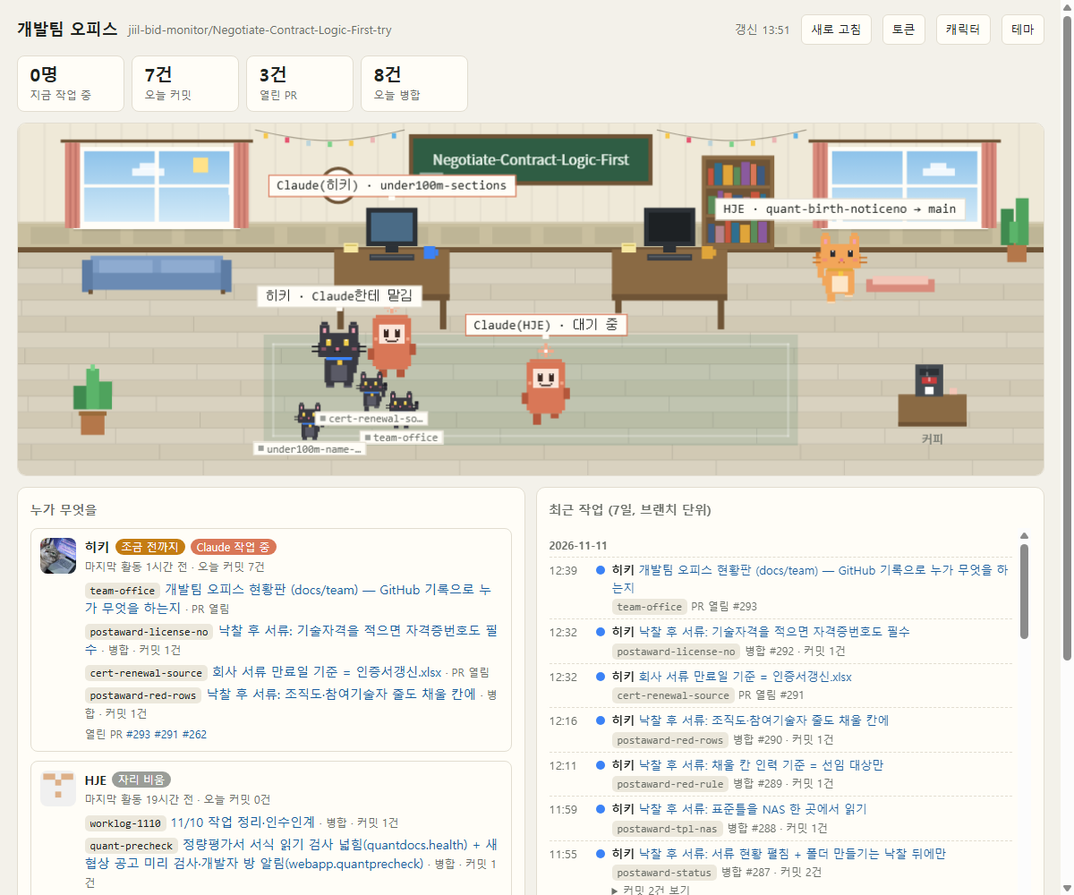
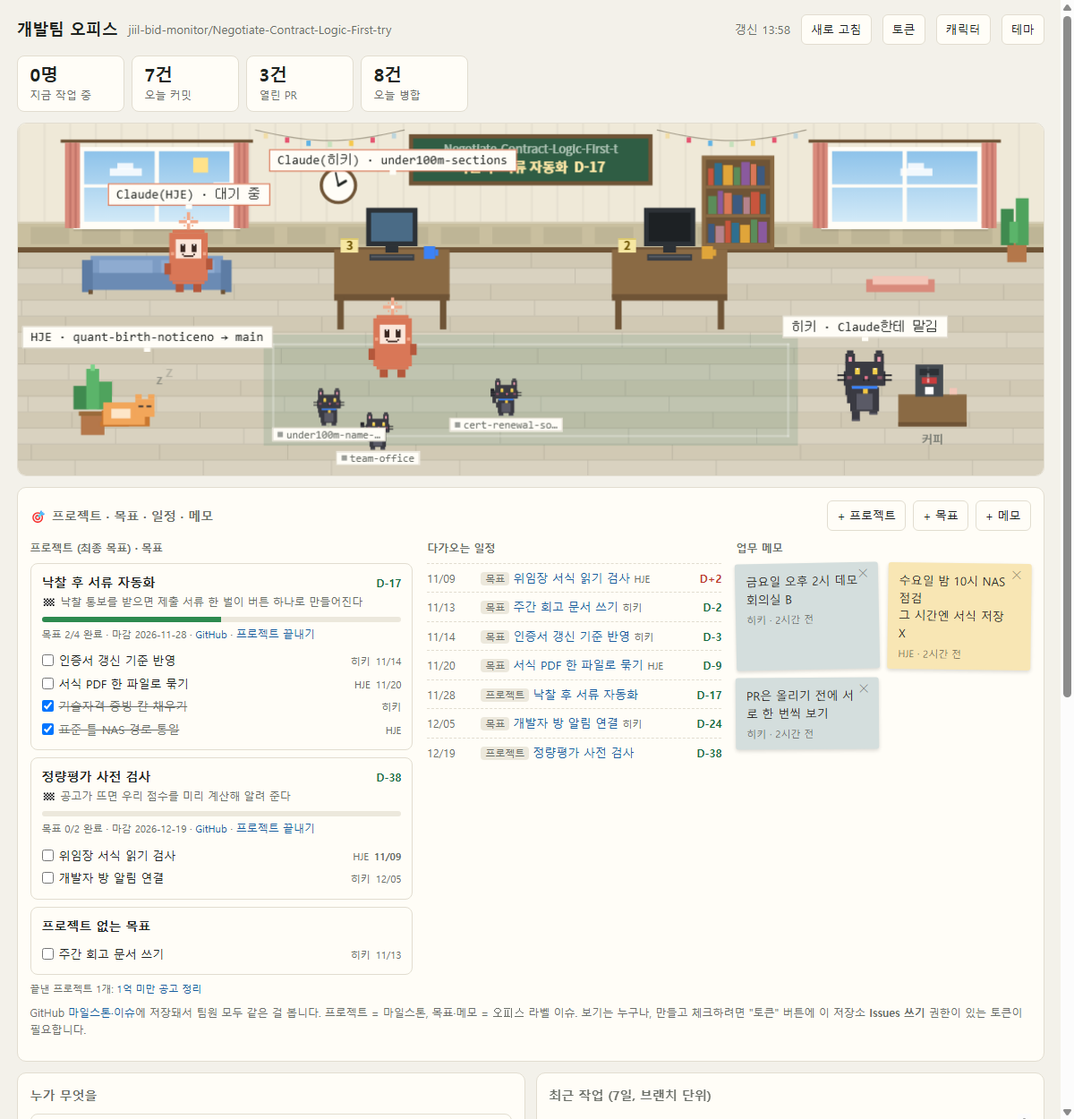
프로젝트·목표·일정·메모 보드 추가 (GitHub 마일스톤·이슈에 저장)
- 프로젝트(최종 목표·마감일) = 마일스톤, 목표·메모 = "오피스" 라벨 이슈.
  목표 마감일은 이슈 본문의 "마감: YYYY-MM-DD" 줄
- 화면에서 프로젝트·목표·메모를 만들고, 목표 체크(이슈 닫기),
  메모 떼기, 프로젝트 끝내기. 쓰기는 Issues 쓰기 권한 토큰이 있을 때만
- 일정: 마감일 있는 프로젝트·목표를 날짜순으로, D-day 표시
- 사무실 칠판에 가장 가까운 프로젝트와 D-day, 책상 포스트잇에 맡은 목표 수
- 보드 저장소는 기본으로 보고 있는 저장소, ?board=owner/name 으로 바꿈
- 자리 말풍선이 칠판을 가리지 않게 조금 내림
- README에 보드 쓰는 법 추가

diff --git a/index.html b/index.html
@@ -71,6 +71,36 @@ dialog h2{font-size:16px;margin:0 0 6px}
 #charCode{width:100%;font:12px/1.5 ui-monospace,Consolas,monospace;background:var(--chip);color:var(--ink);border:1px solid var(--line);border-radius:6px;padding:8px;resize:vertical}
 .dlg-actions{display:flex;gap:8px;margin-top:10px}.dlg-actions .sp{flex:1}
 .err{background:#fde8e8;color:#8a1f1f;border-radius:8px;padding:10px 14px;margin-bottom:12px}
+/* 프로젝트·목표·일정·메모 보드 */
+.board{margin-bottom:12px}
+.bhead{display:flex;align-items:center;gap:8px;flex-wrap:wrap;margin-bottom:10px}.bhead h2{margin:0}.bhead .sp{flex:1}
+.bgrid{display:grid;grid-template-columns:1.3fr 1fr 1fr;gap:16px}
+@media (max-width:980px){.bgrid{grid-template-columns:1fr}}
+.board h3{font-size:12px;color:var(--ink2);margin:0 0 8px;font-weight:600}
+.empty{color:var(--ink2);font-size:12px;padding:10px;border:1px dashed var(--line);border-radius:8px}
+.proj{border:1px solid var(--line);border-radius:8px;padding:10px 12px;margin-bottom:8px}
+.ptop{display:flex;gap:8px;align-items:baseline}.ptop b{flex:1}
+.dday{font-size:12px;font-weight:700;color:var(--accent);white-space:nowrap}.dday.late{color:#c0392b}
+.pdesc{color:var(--ink2);font-size:12px;margin:2px 0 8px;white-space:pre-wrap}
+.bar{height:6px;background:var(--chip);border-radius:3px;overflow:hidden}.bar i{display:block;height:100%;background:var(--good)}
+.goals{list-style:none;margin:8px 0 0;padding:0}
+.goals li{display:flex;gap:6px;align-items:baseline;padding:3px 0;font-size:13px}
+.goals li input{margin:0;transform:translateY(1px)}.goals li .t{flex:1}
+.goals li.done .t{text-decoration:line-through;color:var(--ink2)}
+.goals .who,.goals .due,.mini{font-size:11px;color:var(--ink2);white-space:nowrap}
+.linkbtn{border:0;background:none;color:var(--link);cursor:pointer;font:inherit;font-size:12px;padding:0}
+.sched{list-style:none;margin:0;padding:0}
+.sched li{display:grid;grid-template-columns:52px 1fr auto;gap:8px;align-items:baseline;padding:6px 0;border-top:1px dashed var(--line);font-size:13px}
+.sched .d{font-variant-numeric:tabular-nums;color:var(--ink2);font-size:12px}
+.sched .kind{font-size:11px;border-radius:4px;padding:0 5px;background:var(--chip);color:var(--ink2);margin-right:4px}
+.memos{align-items:start;display:grid;grid-template-columns:repeat(auto-fill,minmax(130px,1fr));gap:10px}
+.memo{position:relative;padding:10px 12px 8px;border-radius:3px;font-size:13px;box-shadow:0 2px 4px rgba(0,0,0,.14);color:#2b2a26}
+.memo .tx{white-space:pre-wrap;word-break:break-all;padding-right:10px}
+.memo .by{font-size:11px;opacity:.65;margin-top:6px}
+.memo button{position:absolute;top:2px;right:5px;border:0;background:none;cursor:pointer;opacity:.45;font-size:13px;color:#2b2a26}.memo button:hover{opacity:1}
+.ffields label{display:block;font-size:12px;color:var(--ink2);margin:10px 0 3px}
+.ffields input,.ffields select,.ffields textarea{width:100%;font:inherit;color:var(--ink);background:var(--bg);border:1px solid var(--line);border-radius:6px;padding:6px 8px}
+.btn.primary{background:var(--accent);color:#fff;border-color:var(--accent)}
 </style>
 </head>
 <body>
@@ -81,7 +111,7 @@ dialog h2{font-size:16px;margin:0 0 6px}
   <span class="sp"></span>
   <span class="repo" id="updated"></span>
   <button class="btn" id="btnRefresh">새로 고침</button>
-  <button class="btn" id="btnToken" title="GitHub 토큰(읽기 전용)을 넣으면 조회 한도가 시간당 60회에서 5,000회로 늘어납니다">토큰</button>
+  <button class="btn" id="btnToken" title="GitHub 토큰을 넣으면 조회 한도가 시간당 60회에서 5,000회로 늘고, Issues 쓰기 권한이 있으면 프로젝트·목표·메모를 만들 수 있습니다">토큰</button>
   <button class="btn" id="btnChars" title="동물·털 색·목걸이 색 고르기">캐릭터</button>
   <button class="btn" id="btnTheme">테마</button>
 </header>
@@ -100,11 +130,29 @@ dialog h2{font-size:16px;margin:0 0 6px}
   <div class="stat"><b id="sMerged">-</b><span>오늘 병합</span></div>
 </div>
 <div class="office"><canvas id="office" width="960" height="330"></canvas></div>
+<div class="card board">
+  <div class="bhead"><h2>🎯 프로젝트 · 목표 · 일정 · 메모</h2><span class="sp"></span>
+    <button class="btn" data-new="project">+ 프로젝트</button><button class="btn" data-new="goal">+ 목표</button><button class="btn" data-new="memo">+ 메모</button></div>
+  <div id="boardErr" class="err" hidden></div>
+  <div class="bgrid">
+    <section><h3>프로젝트 (최종 목표) · 목표</h3><div id="projects"></div></section>
+    <section><h3>다가오는 일정</h3><ul id="sched" class="sched"></ul></section>
+    <section><h3>업무 메모</h3><div id="memos" class="memos"></div></section>
+  </div>
+  <p class="note">GitHub <a id="boardLink" target="_blank">마일스톤·이슈</a>에 저장돼서 팀원 모두 같은 걸 봅니다. 프로젝트 = 마일스톤, 목표·메모 = <code>오피스</code> 라벨 이슈.
+    보기는 누구나, 만들고 체크하려면 "토큰" 버튼에 이 저장소 <b>Issues 쓰기</b> 권한이 있는 토큰이 필요합니다.</p>
+</div>
+<dialog id="dlgForm"><form id="fForm">
+  <h2 id="fTitle"></h2>
+  <div id="fFields" class="ffields"></div>
+  <div id="fErr" class="err" hidden style="margin:10px 0 0"></div>
+  <div class="dlg-actions"><span class="sp"></span><button type="button" class="btn" id="fCancel">취소</button><button class="btn primary" id="fOk">만들기</button></div>
+</form></dialog>
 <div class="grid">
   <div class="card"><h2>누가 무엇을</h2><div class="people" id="people"></div>
     <h2 style="margin-top:14px">열린 PR</h2><div id="prs"></div></div>
   <div class="card"><h2>최근 작업 (7일, 브랜치 단위)</h2><ul class="tl" id="tl"></ul>
-    <p class="note">커밋을 한 줄씩 나열하지 않고 브랜치(PR) 단위로 묶었습니다. 제목은 PR 제목, 없으면 마지막 커밋 메시지. '커밋 n건 보기'를 누르면 원래 커밋. Claude Code 웹 세션의 커밋(작성자 "Claude")도 밀어 넣은 사람 이름으로 붙입니다. 10분마다 새로 고침.</p></div>
+    <p class="note">커밋을 한 줄씩 나열하지 않고 브랜치(PR) 단위로 묶었습니다. 제목은 PR 제목, 없으면 마지막 커밋 메시지. '커밋 n건 보기'를 누르면 원래 커밋. Claude Code 웹 세션의 커밋(작성자 "Claude")도 밀어 넣은 사람 이름으로 붙입니다. 20분마다 새로 고침.</p></div>
 </div>
 </div>
 <script>
@@ -131,12 +179,19 @@ const ACTIVE_MIN = 30, RECENT_H = 3;
 const $ = (s) => document.querySelector(s);
 const esc = (s) => String(s ?? '').replace(/[&<>"]/g, (c) => ({'&':'&amp;','<':'&lt;','>':'&gt;','"':'&quot;'}[c]));
 const token = () => { try { return localStorage.getItem('gh_token') || ''; } catch { return ''; } };
-const api = async (path) => {
+const BOARD_REPO = new URLSearchParams(location.search).get('board') || REPO;   // 프로젝트·목표·메모를 둘 저장소 (?board=owner/name)
+const BOARD_LABEL = '오피스', MEMO_LABEL = '메모';
+const api = async (path, {method = 'GET', body} = {}) => {
   const h = {Accept: 'application/vnd.github+json'};
   if (token()) h.Authorization = 'Bearer ' + token();
-  const r = await fetch('https://api.github.com' + path, {headers: h});
-  if (!r.ok) throw new Error(r.status === 403 ? '조회 한도 초과 — "토큰" 버튼으로 GitHub 토큰을 넣으면 됩니다' : `GitHub ${r.status}`);
-  return r.json();
+  if (body) h['Content-Type'] = 'application/json';
+  const r = await fetch('https://api.github.com' + path, {method, headers: h, body: body && JSON.stringify(body)});
+  if (!r.ok) {
+    if (method !== 'GET') throw new Error(r.status === 401 ? '토큰이 맞지 않아요 — "토큰" 버튼에서 다시 넣어 주세요'
+      : r.status === 403 || r.status === 404 ? `이 토큰엔 ${BOARD_REPO} Issues 쓰기 권한이 없어요` : r.status === 422 ? '입력값을 GitHub가 받지 않았어요 (같은 이름의 프로젝트가 이미 있나요?)' : `GitHub ${r.status}`);
+    throw new Error(r.status === 403 ? '조회 한도 초과 — "토큰" 버튼으로 GitHub 토큰을 넣으면 됩니다' : `GitHub ${r.status}`);
+  }
+  return r.status === 204 ? null : r.json();
 };
 const kst = (iso) => new Date(new Date(iso).getTime() + 9 * 3600e3);
 const dayKey = (iso) => kst(iso).toISOString().slice(0, 10);
@@ -163,6 +218,15 @@ function person(login, avatar) {
   return people[login];
 }
 
+// 보드 — 프로젝트(마일스톤)·목표·메모(이슈)
+let board = {milestones: [], issues: []};
+const isMemo = (i) => i.labels.some((l) => l.name === MEMO_LABEL);
+const dueOf = (i) => (i.body || '').match(/마감:\s*(\d{4}-\d{2}-\d{2})/)?.[1] || '';   // 목표 마감일은 이슈 본문의 "마감: 2026-11-30" 줄
+const dday = (d) => Math.round((Date.parse(d) - Date.parse(dayKey(new Date().toISOString()))) / 864e5);
+const ddayText = (n) => n === 0 ? 'D-DAY' : n > 0 ? `D-${n}` : `D+${-n}`;
+const openGoals = (login) => board.issues.filter((i) => i.state === 'open' && !isMemo(i) && i.assignees?.some((a) => a.login === login)).length;
+const nextProject = () => board.milestones.filter((m) => m.state === 'open').sort((a, b) => (a.due_on || '9') < (b.due_on || '9') ? -1 : 1)[0];
+
 let last = null;   // 마지막으로 불러온 화면 데이터 (캐릭터만 바꿀 땐 다시 조회하지 않고 이걸로 그림)
 async function load() {
   $('#err').hidden = true;
@@ -180,6 +244,7 @@ async function load() {
   } catch (err) {
     $('#err').textContent = err.message; $('#err').hidden = false;
   }
+  loadBoard();
 }
 
 async function assemble(events, pulls, mainCommits) {
@@ -291,7 +356,7 @@ function render({items, openPRs, mergedToday}) {
       <img src="${esc(p.avatar)}" alt="">
       <div>
         <span class="nm">${esc(p.name)}</span><span class="st" style="background:${stColor[p.state]}">${stLabel[p.state]}</span>${p.claude ? '<span class="st" style="background:#d97757">Claude 작업 중</span>' : ''}
-        <div class="meta">${p.last ? `마지막 활동 ${ago(p.last)} · 오늘 커밋 ${p.today}건` : '7일 안 활동 없음'}</div>
+        <div class="meta">${p.last ? `마지막 활동 ${ago(p.last)} · 오늘 커밋 ${p.today}건` : '7일 안 활동 없음'}${openGoals(p.login) ? ` · 맡은 목표 ${openGoals(p.login)}개` : ''}</div>
         ${(() => { const mine = items.filter((it) => it.who === p.login).slice(0, 4); return mine.length ? `<ul class="mine">${mine.map((it) => `<li><span class="chip">${esc(it.branch.replace(/^claude\//, ''))}</span> ${it.url ? `<a href="${esc(it.url)}" target="_blank">${esc(it.title)}</a>` : esc(it.title)} <span class="meta">· ${it.status}${it.commits.length ? ` · 커밋 ${it.commits.length}건` : ''}</span></li>`).join('')}</ul>` : ''; })()}
         ${p.prs.length ? `<div class="meta">열린 PR ${p.prs.map((pr) => `<a href="${esc(pr.html_url)}" target="_blank">#${pr.number}</a>`).join(' ')}</div>` : ''}
       </div>
@@ -497,8 +562,15 @@ const scene = (() => {
     // 벽 안내판 (나무 테두리)
     px(W / 2 - 114, 10, 228, 48, css('--desk2')); px(W / 2 - 110, 14, 220, 40, '#2f5d44');
     ctx.fillStyle = '#e8f3ea'; ctx.font = '13px sans-serif'; ctx.textAlign = 'center';
-    ctx.fillText(REPO.split('/')[1].slice(0, 30), W / 2, 39);
-    px(W / 2 - 104, 46, 22, 3, 'rgba(255,255,255,.5)');   // 분필
+    const pj = nextProject();   // 칠판 — 저장소 이름, 프로젝트가 있으면 그 이름과 D-day
+    if (pj) {
+      ctx.font = '11px sans-serif'; ctx.fillStyle = 'rgba(232,243,234,.7)'; ctx.fillText(REPO.split('/')[1].slice(0, 32), W / 2, 28);
+      const dd = pj.due_on ? '  ' + ddayText(dday(dayKey(pj.due_on))) : '';
+      ctx.font = 'bold 13px sans-serif'; ctx.fillStyle = '#ffe9a8'; ctx.fillText((pj.title.length > 18 ? pj.title.slice(0, 17) + '…' : pj.title) + dd, W / 2, 46);
+    } else {
+      ctx.fillText(REPO.split('/')[1].slice(0, 30), W / 2, 39);
+      px(W / 2 - 104, 46, 22, 3, 'rgba(255,255,255,.5)');   // 분필
+    }
     // 벽시계 — 지금 시각
     const ckx = 300, cky = 58;
     ctx.fillStyle = css('--panel'); ctx.strokeStyle = css('--desk2'); ctx.lineWidth = 3;
@@ -540,7 +612,9 @@ const scene = (() => {
     px(x - 4, y - 56, 8, 4, '#2c3136');
     px(x - 14, y - 51, 28, 4, '#3a3f45'); px(x - 13, y - 50, 26, 1, '#5a6068');   // 키보드
     px(x + 20, y - 56, 7, 8, c.p.color); px(x + 27, y - 54, 2, 4, c.p.color);    // 머그컵 (사람 색)
-    px(x - 30, y - 58, 9, 6, '#f6e7a1'); px(x - 29, y - 57, 7, 1, '#d8c56a');     // 포스트잇
+    px(x - 32, y - 61, 11, 9, '#f6e7a1'); px(x - 32, y - 61, 11, 1, '#d8c56a');   // 포스트잇 — 맡은 목표 수
+    const ng = openGoals(c.p.login);
+    if (ng) { ctx.fillStyle = '#6b5200'; ctx.font = 'bold 7px sans-serif'; ctx.textAlign = 'center'; ctx.fillText(ng, x - 26.5, y - 53.5); }
     ctx.restore();
   }
 
@@ -664,13 +738,13 @@ const scene = (() => {
   const atSeat = (c) => Math.abs(c.x - c.seat.x) + Math.abs(c.y - c.seat.y) <= 1;
   function charBubble(c) {
     const what = hasClaude(c) ? 'Claude한테 맡김' : branchText(c.p) || (c.p.state === 'away' ? '자리 비움' : '대기');
-    bubble(`${c.p.name} · ${cut(what)}`, c.x, atSeat(c) ? c.y - 168 : c.y - (c.p.kind === '토끼' ? 84 : 72));
+    bubble(`${c.p.name} · ${cut(what)}`, c.x, atSeat(c) ? c.y - 158 : c.y - (c.p.kind === '토끼' ? 84 : 72));
   }
   function botBubble(b) {
     const c = chars.find((c) => c.p.login === b.login), seated = b.working && c && Math.abs(b.x - c.seat.x) + Math.abs(b.y - c.seat.y) <= 1;
     const what = b.leaving ? '퇴근' : b.working ? cut(branchText(b.p) || '작업 중') : '대기 중';
     const owner = bots.length > 1 && b.p ? `(${b.p.name})` : '';   // Claude가 여럿이면 누구 Claude인지
-    bubble(`Claude${owner} · ${what}`, b.x, seated ? b.y - 168 : b.y - 80, '#d97757');
+    bubble(`Claude${owner} · ${what}`, b.x, seated ? b.y - 158 : b.y - 80, '#d97757');
   }
 
   function move(c, dt) {
@@ -711,7 +785,108 @@ const scene = (() => {
 
 $('#repoName').textContent = REPO;
 $('#btnRefresh').onclick = load;
-$('#btnToken').onclick = () => { const v = prompt('GitHub 토큰(읽기 전용, public_repo면 충분). 비우면 삭제', token()); if (v !== null) { try { v ? localStorage.setItem('gh_token', v.trim()) : localStorage.removeItem('gh_token'); } catch {} load(); } };
+$('#btnToken').onclick = () => { const v = prompt('GitHub 토큰. 비우면 삭제.\n· 보기만: 권한 없는 토큰이면 충분 (조회 한도가 시간당 5,000회로)\n· 프로젝트·목표·메모 만들기: 저장소 Issues 쓰기 권한 필요', token()); if (v !== null) { try { v ? localStorage.setItem('gh_token', v.trim()) : localStorage.removeItem('gh_token'); } catch {} load(); } };
+// ── 프로젝트·목표·일정·메모 보드 (GitHub 마일스톤·이슈에 저장) ──
+function renderBoard() {
+  const goals = board.issues.filter((i) => !isMemo(i)), memos = board.issues.filter((i) => isMemo(i) && i.state === 'open');
+  const open = board.milestones.filter((m) => m.state === 'open').sort((a, b) => (a.due_on || '9') < (b.due_on || '9') ? -1 : 1);
+  const closed = board.milestones.filter((m) => m.state !== 'open');
+  const who = (i) => i.assignees?.length ? i.assignees.map((a) => look(a.login).name).join('·') : '';
+  const goalLi = (i) => `<li class="${i.state === 'closed' ? 'done' : ''}"><input type="checkbox" data-issue="${i.number}"${i.state === 'closed' ? ' checked' : ''}>
+    <span class="t"><a href="${esc(i.html_url)}" target="_blank" style="color:inherit">${esc(i.title)}</a></span>
+    ${who(i) ? `<span class="who">${esc(who(i))}</span>` : ''}${dueOf(i) && i.state === 'open' ? `<span class="due${dday(dueOf(i)) < 0 ? ' dday late' : ''}">${dueOf(i).slice(5).replace('-', '/')}</span>` : ''}</li>`;
+  const sortGoals = (gs) => gs.slice().sort((a, b) => a.state !== b.state ? (a.state === 'open' ? -1 : 1) : (dueOf(a) || '9') < (dueOf(b) || '9') ? -1 : 1);
+  const proj = (m) => {
+    const gs = sortGoals(goals.filter((i) => i.milestone?.number === m.number)), done = gs.filter((i) => i.state === 'closed').length;
+    const d = m.due_on ? dayKey(m.due_on) : '', n = d ? dday(d) : null;
+    return `<div class="proj"><div class="ptop"><b>${esc(m.title)}</b>${d ? `<span class="dday${n < 0 ? ' late' : ''}">${ddayText(n)}</span>` : ''}</div>
+      ${m.description ? `<div class="pdesc">🏁 ${esc(m.description)}</div>` : ''}
+      <div class="bar"><i style="width:${gs.length ? Math.round(done / gs.length * 100) : 0}%"></i></div>
+      <div class="mini" style="margin-top:4px">목표 ${done}/${gs.length} 완료${d ? ` · 마감 ${d}` : ''} · <a href="${esc(m.html_url)}" target="_blank">GitHub</a> · <button class="linkbtn" data-close-ms="${m.number}">프로젝트 끝내기</button></div>
+      ${gs.length ? `<ul class="goals">${gs.map(goalLi).join('')}</ul>` : ''}</div>`;
+  };
+  const loose = sortGoals(goals.filter((i) => !i.milestone && (i.state === 'open' || Date.now() - new Date(i.closed_at) < 7 * 864e5)));
+  $('#projects').innerHTML = (open.map(proj).join('')
+    + (loose.length ? `<div class="proj"><div class="ptop"><b>프로젝트 없는 목표</b></div><ul class="goals">${loose.map(goalLi).join('')}</ul></div>` : '')
+    + (closed.length ? `<div class="mini">끝낸 프로젝트 ${closed.length}개: ${closed.map((m) => `<a href="${esc(m.html_url)}" target="_blank">${esc(m.title)}</a>`).join(', ')}</div>` : ''))
+    || '<div class="empty">아직 프로젝트가 없어요. "+ 프로젝트"로 최종 목표를 하나 세워 보세요.</div>';
+  // 일정 = 마감일이 있는 프로젝트와 목표를 날짜순으로
+  const sched = [...open.filter((m) => m.due_on).map((m) => ({d: dayKey(m.due_on), kind: '프로젝트', title: m.title, url: m.html_url, who: ''})),
+                 ...goals.filter((i) => i.state === 'open' && dueOf(i)).map((i) => ({d: dueOf(i), kind: '목표', title: i.title, url: i.html_url, who: who(i)}))]
+    .sort((a, b) => a.d < b.d ? -1 : 1).slice(0, 12);
+  $('#sched').innerHTML = sched.map((s) => { const n = dday(s.d); return `<li><span class="d">${s.d.slice(5).replace('-', '/')}</span>
+    <span><span class="kind">${s.kind}</span><a href="${esc(s.url)}" target="_blank">${esc(s.title)}</a>${s.who ? ` <span class="mini">${esc(s.who)}</span>` : ''}</span>
+    <span class="dday${n < 0 ? ' late' : ''}">${ddayText(n)}</span></li>`; }).join('') || '<li class="empty" style="display:block">마감일을 넣은 프로젝트·목표가 여기 날짜순으로 나와요.</li>';
+  $('#memos').innerHTML = memos.map((i, k) => { const p = look(i.user.login); return `<div class="memo" style="background:color-mix(in srgb, ${esc(p.color)} 22%, #fff8d6);transform:rotate(${[-1.2, 0.8, -0.4, 1.4][k % 4]}deg)"><button data-close-memo="${i.number}" title="메모 떼기">✕</button><div class="tx">${esc((i.body || i.title).slice(0, 300))}</div><div class="by">${esc(p.name)} · ${ago(i.created_at)}</div></div>`; }).join('') || '<div class="empty">붙여 둔 메모가 없어요.</div>';
+}
+async function loadBoard() {
+  $('#boardLink').href = `https://github.com/${BOARD_REPO}/milestones`;
+  try {
+    const [ms, is] = await Promise.all([
+      api(`/repos/${BOARD_REPO}/milestones?state=all&per_page=50`),
+      api(`/repos/${BOARD_REPO}/issues?labels=${encodeURIComponent(BOARD_LABEL)}&state=all&per_page=100&sort=updated`),
+    ]);
+    board = {milestones: ms, issues: is.filter((i) => !i.pull_request)};
+    $('#boardErr').hidden = true;
+  } catch (err) { $('#boardErr').textContent = '보드를 못 불러왔어요 — ' + err.message; $('#boardErr').hidden = false; }
+  renderBoard();
+  if (last) render(last);   // 카드의 "목표 n개"도 갱신
+}
+const needToken = () => token() ? true : (alert(`만들거나 고치려면 "토큰" 버튼에 GitHub 토큰을 넣어 주세요.\n\n${BOARD_REPO} 저장소의 Issues 쓰기 권한이 있어야 합니다.\n(GitHub → Settings → Developer settings → Fine-grained tokens → Repository permissions → Issues: Read and write)`), false);
+let labelsOk = false;
+async function ensureLabels() {   // 라벨이 없으면 만듦 (이미 있으면 422 — 무시)
+  if (labelsOk) return;
+  for (const [name, color] of [[BOARD_LABEL, 'd97757'], [MEMO_LABEL, 'f6e7a1']]) { try { await api(`/repos/${BOARD_REPO}/labels`, {method: 'POST', body: {name, color, description: '개발팀 오피스 보드'}}); } catch {} }
+  labelsOk = true;
+}
+const FORMS = {
+  project: {title: '새 프로젝트', fields: [['title', '프로젝트 이름', 'text', true], ['desc', '최종 목표 — 이게 되면 끝', 'textarea'], ['due', '마감일', 'date']]},
+  goal: {title: '새 목표', fields: [['title', '목표', 'text', true], ['ms', '프로젝트', 'ms'], ['who', '담당', 'who'], ['due', '마감일', 'date'], ['body', '설명', 'textarea']]},
+  memo: {title: '새 메모', fields: [['text', '메모', 'textarea', true]]},
+};
+let formKind = null;
+function openForm(kind) {
+  if (!needToken()) return;
+  formKind = kind; const f = FORMS[kind];
+  $('#fTitle').textContent = f.title; $('#fErr').hidden = true; $('#fOk').disabled = false;
+  const logins = [...new Set([...Object.keys(PEOPLE), ...Object.keys(people)])];
+  $('#fFields').innerHTML = f.fields.map(([k, label, type, req]) => `<label for="f_${k}">${label}${req ? ' *' : ''}</label>` + (
+    type === 'textarea' ? `<textarea id="f_${k}" rows="3"${req ? ' required' : ''}></textarea>`
+    : type === 'ms' ? `<select id="f_${k}"><option value="">(없음)</option>${board.milestones.filter((m) => m.state === 'open').map((m) => `<option value="${m.number}">${esc(m.title)}</option>`).join('')}</select>`
+    : type === 'who' ? `<select id="f_${k}"><option value="">(없음)</option>${logins.map((l) => `<option value="${esc(l)}">${esc(look(l).name)}</option>`).join('')}</select>`
+    : `<input id="f_${k}" type="${type}"${req ? ' required' : ''}>`)).join('');
+  $('#dlgForm').showModal();
+}
+$('#fCancel').onclick = () => $('#dlgForm').close();
+$('#fForm').addEventListener('submit', async (e) => {
+  e.preventDefault();
+  const v = Object.fromEntries(FORMS[formKind].fields.map(([k]) => [k, $('#f_' + k).value.trim()]));
+  const issues = `/repos/${BOARD_REPO}/issues`;
+  $('#fOk').disabled = true; $('#fErr').hidden = true;
+  try {
+    if (formKind !== 'project') await ensureLabels();
+    if (formKind === 'project') await api(`/repos/${BOARD_REPO}/milestones`, {method: 'POST', body: {title: v.title, description: v.desc, ...(v.due ? {due_on: `${v.due}T14:59:59Z`} : {})}});   // 한국 시간 그날 끝
+    if (formKind === 'goal') await api(issues, {method: 'POST', body: {title: v.title, body: [v.due ? `마감: ${v.due}` : '', v.body].filter(Boolean).join('\n\n'), labels: [BOARD_LABEL], ...(v.ms ? {milestone: +v.ms} : {}), ...(v.who ? {assignees: [v.who]} : {})}});
+    if (formKind === 'memo') await api(issues, {method: 'POST', body: {title: v.text.split('\n')[0].slice(0, 80), body: v.text, labels: [BOARD_LABEL, MEMO_LABEL]}});
+    $('#dlgForm').close(); await loadBoard();
+  } catch (err) { $('#fErr').textContent = err.message; $('#fErr').hidden = false; $('#fOk').disabled = false; }
+});
+document.querySelector('.bhead').addEventListener('click', (e) => { const k = e.target.dataset.new; if (k) openForm(k); });
+$('#projects').addEventListener('change', async (e) => {   // 목표 체크 = 이슈 닫기/다시 열기
+  const n = e.target.dataset.issue; if (!n) return;
+  if (!needToken()) { e.target.checked = !e.target.checked; return; }
+  try { await api(`/repos/${BOARD_REPO}/issues/${n}`, {method: 'PATCH', body: {state: e.target.checked ? 'closed' : 'open'}}); await loadBoard(); }
+  catch (err) { alert(err.message); e.target.checked = !e.target.checked; }
+});
+$('#projects').addEventListener('click', async (e) => {
+  const n = e.target.dataset.closeMs; if (!n || !needToken() || !confirm('이 프로젝트를 끝낸 걸로 표시할까요? (GitHub 마일스톤을 닫습니다. GitHub에서 다시 열 수 있어요)')) return;
+  try { await api(`/repos/${BOARD_REPO}/milestones/${n}`, {method: 'PATCH', body: {state: 'closed'}}); await loadBoard(); } catch (err) { alert(err.message); }
+});
+$('#memos').addEventListener('click', async (e) => {
+  const n = e.target.dataset.closeMemo; if (!n || !needToken()) return;
+  try { await api(`/repos/${BOARD_REPO}/issues/${n}`, {method: 'PATCH', body: {state: 'closed'}}); await loadBoard(); } catch (err) { alert(err.message); }
+});
+
 // ── 캐릭터 고르기 ──
 function charCode() {
   const logins = [...new Set([...Object.keys(PEOPLE), ...Object.keys(people)])];

diff --git a/README.md b/README.md
@@ -40,6 +40,29 @@
 
 ---
 
+## 🎯 프로젝트 · 목표 · 일정 · 메모
+
+![프로젝트 보드](board.png)
+
+<sub>↑ 예시 화면</sub>
+
+사무실 바로 아래 보드에서 팀이 같이 봅니다. **GitHub 마일스톤·이슈에 저장**되니, GitHub에서 직접 고쳐도 그대로 반영됩니다.
+
+| 보드에서 | GitHub에서는 | 버튼 |
+|---|---|---|
+| **프로젝트** (최종 목표 + 마감일) | 마일스톤 | `+ 프로젝트` |
+| **목표** (담당 · 마감일, 체크하면 완료) | `오피스` 라벨 이슈 — 마감일은 본문의 `마감: 2026-11-30` 줄 | `+ 목표` |
+| **일정** | 마감일 있는 프로젝트·목표를 날짜순으로 자동 정리 (D-day) | — |
+| **메모** (포스트잇, ✕로 떼기) | `오피스` + `메모` 라벨 이슈 | `+ 메모` |
+
+사무실에도 보입니다. 칠판에 **가장 가까운 프로젝트와 D-day**, 책상 포스트잇에 **그 사람이 맡은 목표 수**.
+
+> 🔑 **보기는 누구나** 됩니다. **만들고 체크하려면** 오른쪽 위 **토큰** 버튼에 토큰을 한 번 넣어 두세요.
+> GitHub → Settings → Developer settings → Fine-grained tokens → 저장소 선택 → Repository permissions → **Issues: Read and write**
+> 토큰은 내 브라우저에만 저장됩니다.
+
+---
+
 ## 🎨 내 캐릭터 고르기
 
 <img src="characters.png" alt="캐릭터 고르기 창" width="420">
@@ -81,7 +104,7 @@
 <details>
 <summary><b>"조회 한도 초과"가 떠요</b></summary>
 
-토큰 없이는 GitHub가 **IP당 시간당 60회**만 허락합니다. 한 번 새로 고칠 때 5~7회를 쓰고 20분마다 새로 고치니, 같은 사무실에서 두 명까지는 괜찮습니다.
+토큰 없이는 GitHub가 **IP당 시간당 60회**만 허락합니다. 한 번 새로 고칠 때 7~9회를 쓰고 20분마다 새로 고치니, 같은 사무실에서 두 명까지는 괜찮습니다.
 더 필요하면 **토큰** 버튼에 읽기 전용 토큰(공개 저장소면 권한 없이 만든 토큰도 됨)을 넣으세요. 시간당 5,000회로 늘어나고, 토큰은 내 브라우저에만 저장됩니다.
 비공개 저장소는 그 저장소를 읽을 수 있는 토큰이 있어야 합니다.
 </details>
@@ -97,6 +120,8 @@ const PEOPLE = {   // GitHub 로그인 → 이름 · 목걸이 색 · 동물 · 
   'iamhiki': {name: '히키', color: '#3b82f6', kind: '고양이', fur: '검정'},
   'kdh-007': {name: 'HJE', color: '#e0a53a', kind: '고양이', fur: '치즈'},
 };
+
+const BOARD_REPO = ... || REPO;   // 프로젝트·목표·메모를 둘 저장소 (기본은 위와 같음, ?board=owner/name)
 
 const POLL_MS = 20 * 60 * 1000;   // 새로 고침 주기 (20분)
 ```
